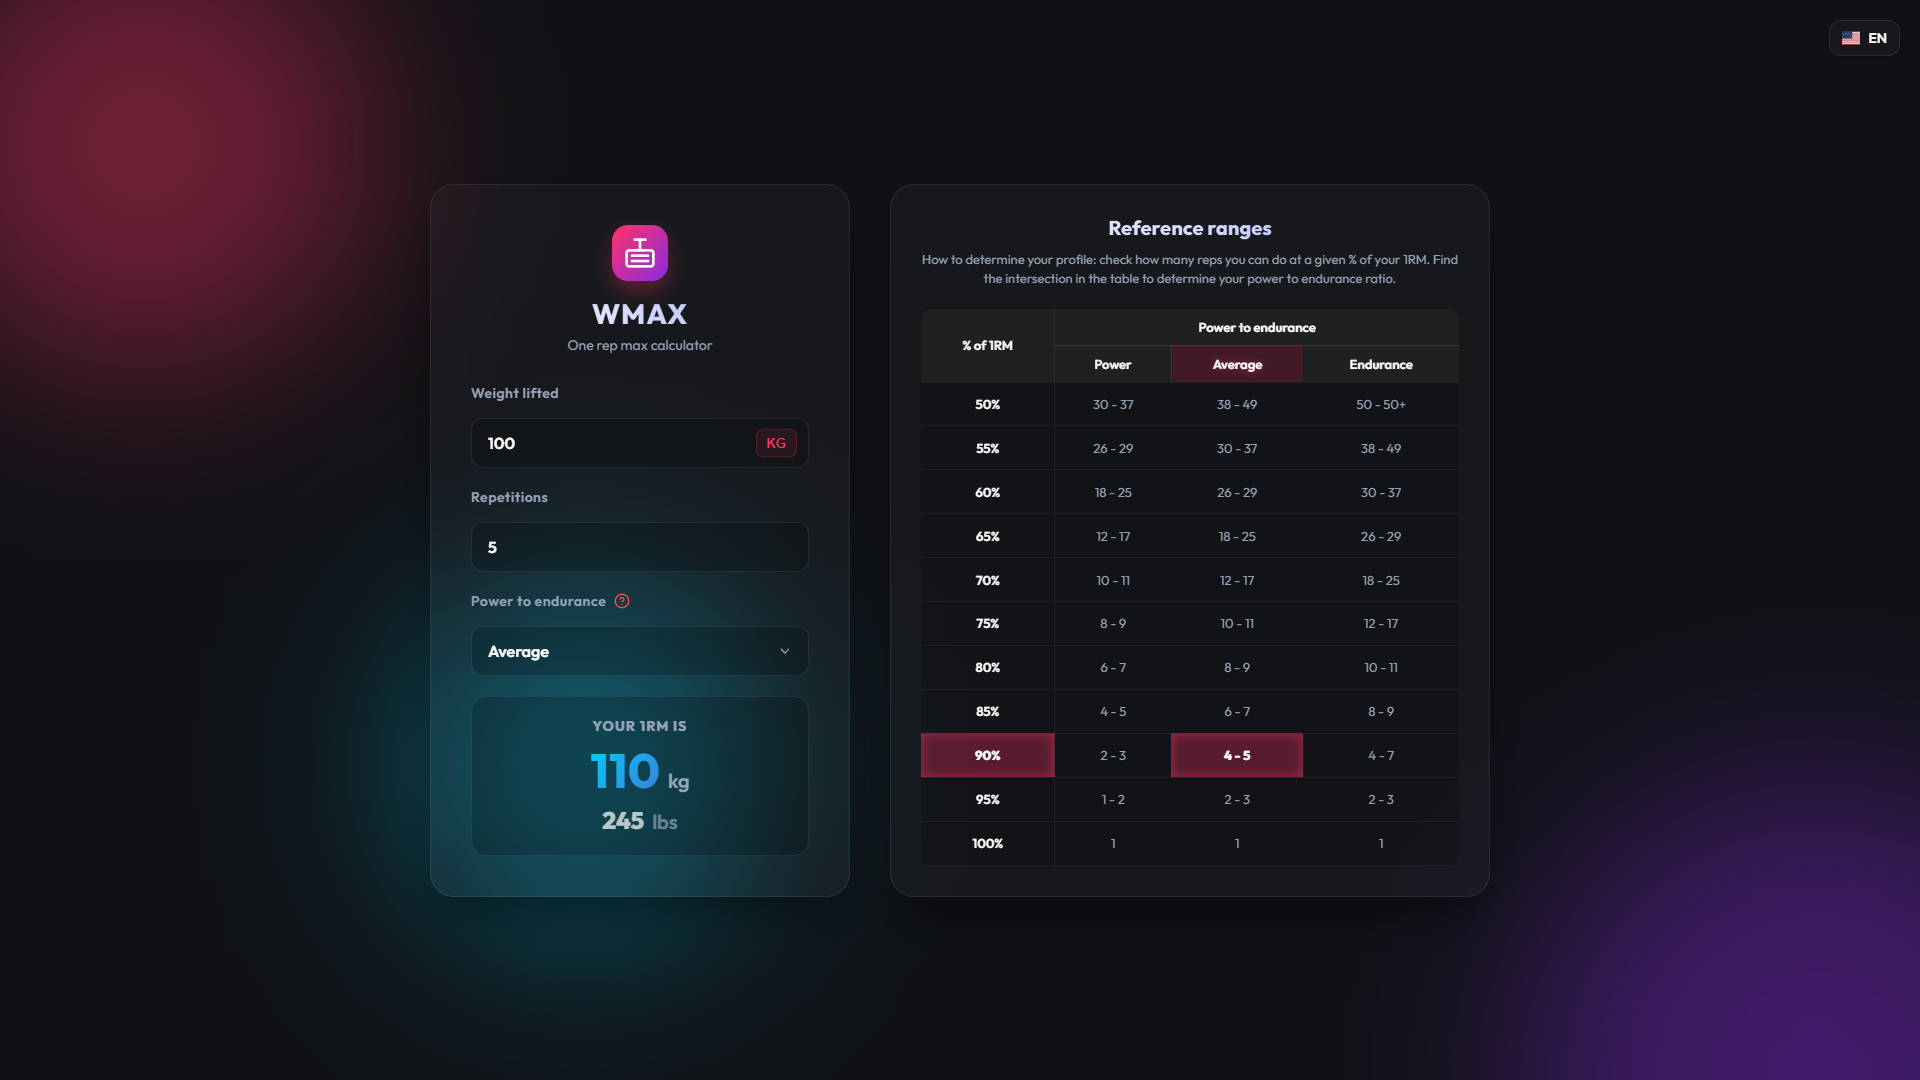
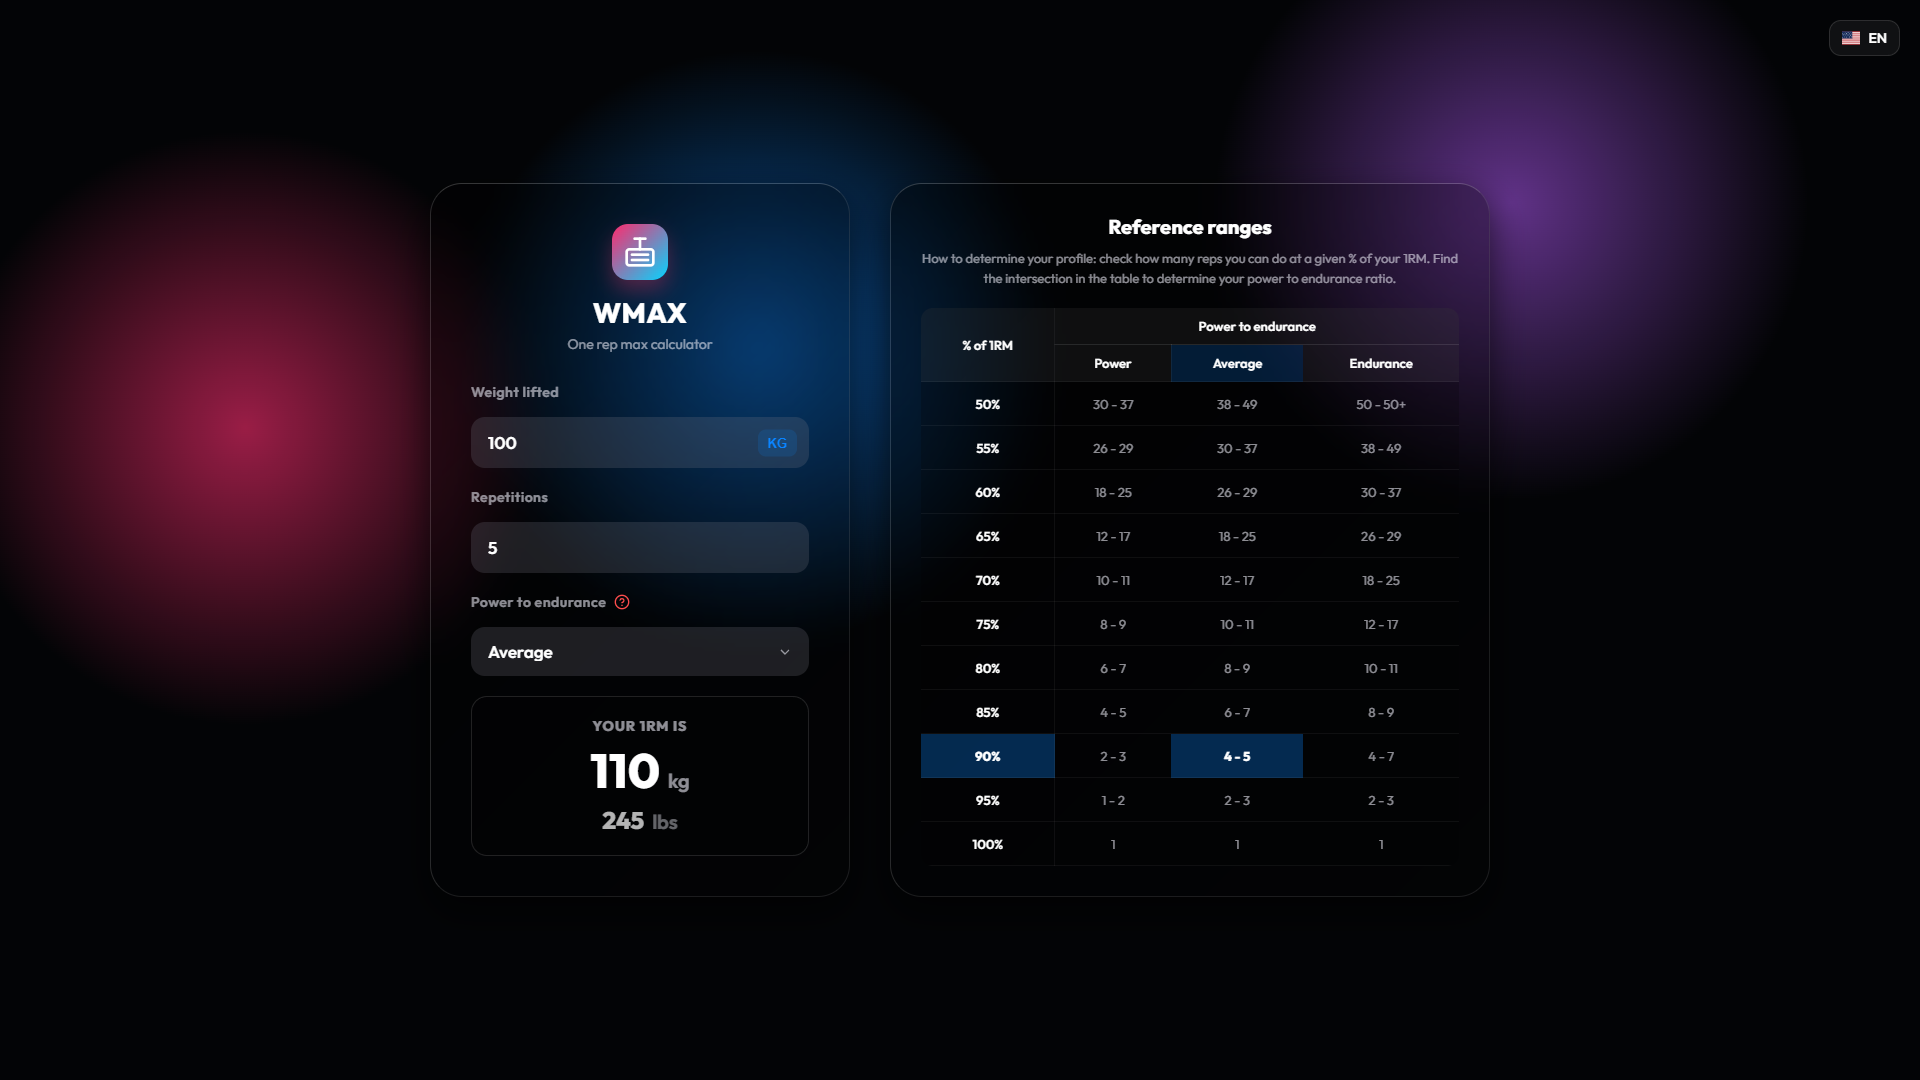
feat(ui): redesign to dark mode with physics background and fix WSL tray
- implement 2D physics engine for background blobs

- redesign UI to use darker glassmorphism

- fix WSL detection to avoid pystray crashes on Linux

- handle KeyboardInterrupt gracefully during Uvicorn shutdown

- update documentation assets

diff --git a/wmax/static/style.css b/wmax/static/style.css
@@ -1,16 +1,16 @@
 :root {
-    --bg-dark: #0f1115;
-    --bg-glass: rgba(255, 255, 255, 0.03);
-    --border-glass: rgba(255, 255, 255, 0.08);
-    --accent: #ff3366;
-    --accent-hover: #ff4d79;
+    --bg-dark: #000000;
+    --bg-glass: rgba(255, 255, 255, 0.05);
+    --border-glass: rgba(255, 255, 255, 0.12);
+    --accent: #0A84FF;
+    --accent-hover: #409CFF;
     --text-primary: #ffffff;
-    --text-secondary: #94a3b8;
-    --error: #ff4d4d;
-    --success: #33cc66;
-    --gradient-1: #ff3366;
-    --gradient-2: #8a2be2;
-    --gradient-3: #00d2ff;
+    --text-secondary: rgba(235, 235, 245, 0.6);
+    --error: #FF453A;
+    --success: #32D74B;
+    --gradient-1: #FF2A6D;
+    --gradient-2: #05D5FF;
+    --gradient-3: #5E5CE6;
 }
 
 * {
@@ -40,46 +40,34 @@ body {
     height: 100vh;
     overflow: hidden;
     z-index: -1;
+    background-color: #030406;
 }
 
 .blob {
     position: absolute;
+    /* Removed filter: blur to prevent artifacts */
     border-radius: 50%;
-    filter: blur(80px);
-    opacity: 0.4;
-    animation: float 20s infinite alternate;
+    transform-origin: center center;
+    mix-blend-mode: screen;
+}
+
+.blob-1, .blob-2, .blob-3 {
+    width: 600px;
+    height: 600px;
+    top: 0;
+    left: 0;
 }
 
 .blob-1 {
-    width: 400px;
-    height: 400px;
-    background: var(--gradient-1);
-    top: -100px;
-    left: -100px;
-    animation-delay: 0s;
+    background: radial-gradient(circle, rgba(10, 132, 255, 0.6) 0%, transparent 70%); /* Голуба */
 }
 
 .blob-2 {
-    width: 500px;
-    height: 500px;
-    background: var(--gradient-2);
-    bottom: -200px;
-    right: -100px;
-    animation-delay: -5s;
+    background: radial-gradient(circle, rgba(255, 42, 109, 0.6) 0%, transparent 70%); /* Рожева */
 }
 
 .blob-3 {
-    width: 300px;
-    height: 300px;
-    background: var(--gradient-3);
-    bottom: 20%;
-    left: 20%;
-    animation-delay: -10s;
-}
-
-@keyframes float {
-    0% { transform: translate(0, 0) scale(1); }
-    100% { transform: translate(50px, 50px) scale(1.2); }
+    background: radial-gradient(circle, rgba(157, 78, 221, 0.6) 0%, transparent 70%); /* Фіолетова */
 }
 
 /* Top Controls */
@@ -183,13 +171,15 @@ body {
 
 /* Glassmorphism App Container */
 .app-container, .table-card {
-    background: var(--bg-glass);
-    backdrop-filter: blur(20px);
-    -webkit-backdrop-filter: blur(20px);
-    border: 1px solid var(--border-glass);
-    border-radius: 24px;
+    background: linear-gradient(135deg, rgba(0, 0, 0, 0.4) 0%, rgba(0, 0, 0, 0.1) 100%);
+    backdrop-filter: blur(16px);
+    -webkit-backdrop-filter: blur(16px);
+    border: 1px solid rgba(255, 255, 255, 0.1);
+    border-top: 1px solid rgba(255, 255, 255, 0.2);
+    border-left: 1px solid rgba(255, 255, 255, 0.15);
+    border-radius: 32px;
     padding: 40px;
-    box-shadow: 0 25px 50px -12px rgba(0, 0, 0, 0.5);
+    box-shadow: 0 15px 35px rgba(0, 0, 0, 0.6);
     transition: transform 0.3s ease;
 }
 
@@ -244,11 +234,9 @@ body {
 h1 {
     font-size: 28px;
     font-weight: 800;
-    letter-spacing: 1px;
+    letter-spacing: 0.5px;
     margin-bottom: 5px;
-    background: linear-gradient(to right, #fff, #a5b4fc);
-    -webkit-background-clip: text;
-    -webkit-text-fill-color: transparent;
+    color: var(--text-primary);
 }
 
 p {
@@ -304,12 +292,12 @@ p {
 
 input[type="number"], select:not(.unit-select) {
     width: 100%;
-    background: rgba(0, 0, 0, 0.2);
-    border: 1px solid var(--border-glass);
-    border-radius: 12px;
+    background: rgba(118, 118, 128, 0.24);
+    border: 1px solid transparent;
+    border-radius: 14px;
     padding: 14px 16px;
     color: var(--text-primary);
-    font-size: 16px;
+    font-size: 17px;
     font-family: 'Outfit', sans-serif;
     font-weight: 600;
     outline: none;
@@ -325,8 +313,8 @@ input[type="number"]::-webkit-inner-spin-button {
 
 input[type="number"]:focus, select:not(.unit-select):focus {
     border-color: var(--accent);
-    box-shadow: 0 0 0 3px rgba(255, 51, 102, 0.2);
-    background: rgba(0, 0, 0, 0.3);
+    box-shadow: 0 0 0 3px rgba(10, 132, 255, 0.3);
+    background: rgba(118, 118, 128, 0.35);
 }
 
 .unit, .unit-toggle {
@@ -344,9 +332,9 @@ input[type="number"]:focus, select:not(.unit-select):focus {
 }
 
 .unit-toggle {
-    background: rgba(255, 51, 102, 0.1);
+    background: rgba(10, 132, 255, 0.15);
     color: var(--accent);
-    border: 1px solid rgba(255, 51, 102, 0.2);
+    border: none;
     border-radius: 8px;
     padding: 6px 10px;
     font-size: 13px;
@@ -358,7 +346,7 @@ input[type="number"]:focus, select:not(.unit-select):focus {
 }
 
 .unit-toggle:hover {
-    background: rgba(255, 51, 102, 0.25);
+    background: rgba(10, 132, 255, 0.25);
     transform: translateY(-50%) scale(1.05);
 }
 
@@ -383,20 +371,22 @@ select option {
 }
 
 .btn-primary {
-    background: linear-gradient(135deg, var(--gradient-1), var(--gradient-2));
+    background: var(--accent);
     color: white;
     border: none;
-    border-radius: 12px;
+    border-radius: 14px;
     padding: 16px;
-    font-size: 16px;
-    font-weight: 800;
+    font-size: 17px;
+    font-weight: 600;
     font-family: inherit;
     cursor: pointer;
     margin-top: 10px;
-    transition: all 0.3s ease;
-    box-shadow: 0 10px 20px rgba(255, 51, 102, 0.3);
-    position: relative;
-    overflow: hidden;
+    transition: all 0.2s ease;
+}
+
+.btn-primary:hover {
+    background: var(--accent-hover);
+    transform: scale(0.98);
 }
 
 .calc-form {
@@ -445,9 +435,7 @@ select option {
 #max-result {
     font-size: 48px;
     font-weight: 800;
-    background: linear-gradient(135deg, #00d2ff, #3a7bd5);
-    -webkit-background-clip: text;
-    -webkit-text-fill-color: transparent;
+    color: var(--text-primary);
 }
 
 .result-unit {
@@ -500,9 +488,7 @@ select option {
     font-weight: 800;
     margin-bottom: 10px;
     text-align: center;
-    background: linear-gradient(to right, #fff, #a5b4fc);
-    -webkit-background-clip: text;
-    -webkit-text-fill-color: transparent;
+    color: var(--text-primary);
 }
 
 .table-help {
@@ -579,17 +565,17 @@ select option {
 
 /* Highlights */
 .highlight-header {
-    background: rgba(255, 51, 102, 0.2) !important;
+    background: rgba(10, 132, 255, 0.2) !important;
     color: #fff !important;
-    text-shadow: 0 0 8px rgba(255, 51, 102, 0.5);
 }
 
 .highlight-cell {
-    background: rgba(255, 51, 102, 0.3) !important;
+    background: rgba(10, 132, 255, 0.3) !important;
     color: #fff !important;
     font-weight: 800 !important;
-    box-shadow: inset 0 0 10px rgba(255, 51, 102, 0.5);
 }
+
+
 
 /* Responsive Design */
 @media screen and (max-width: 900px) {

diff --git a/wmax/static/script.js b/wmax/static/script.js
@@ -322,3 +322,79 @@ document.addEventListener("DOMContentLoaded", () => {
     initLanguage();
     performCalculation();
 });
+
+// --- Blob Physics Background ---
+document.addEventListener('DOMContentLoaded', () => {
+    const w = window.innerWidth;
+    const h = window.innerHeight;
+    const r = 300;
+    
+    // Spawn somewhat randomly across the screen, offset by radius so they can appear partially offscreen safely
+    const rx = () => (Math.random() * w) - (r * 0.5);
+    const ry = () => (Math.random() * h) - (r * 0.5);
+
+    const blobs = [
+        { el: document.querySelector('.blob-1'), x: rx(), y: ry(), vx: 0.2, vy: 0.15, radius: r },
+        { el: document.querySelector('.blob-2'), x: rx(), y: ry(), vx: -0.15, vy: 0.2, radius: r },
+        { el: document.querySelector('.blob-3'), x: rx(), y: ry(), vx: -0.2, vy: -0.15, radius: r }
+    ];
+
+    function update() {
+        const w = window.innerWidth;
+        const h = window.innerHeight;
+
+        for (let i = 0; i < blobs.length; i++) {
+            let b = blobs[i];
+            b.x += b.vx;
+            b.y += b.vy;
+
+            // Bounce off walls 
+            if (b.x < -b.radius * 0.5) { b.x = -b.radius * 0.5; b.vx *= -1; }
+            if (b.x > w - b.radius * 1.5) { b.x = w - b.radius * 1.5; b.vx *= -1; }
+            if (b.y < -b.radius * 0.5) { b.y = -b.radius * 0.5; b.vy *= -1; }
+            if (b.y > h - b.radius * 1.5) { b.y = h - b.radius * 1.5; b.vy *= -1; }
+
+            if(b.el) b.el.style.transform = `translate(${b.x}px, ${b.y}px)`;
+        }
+
+        // Check collisions between blobs
+        for (let i = 0; i < blobs.length; i++) {
+            for (let j = i + 1; j < blobs.length; j++) {
+                let b1 = blobs[i];
+                let b2 = blobs[j];
+                
+                let cx1 = b1.x + b1.radius;
+                let cy1 = b1.y + b1.radius;
+                let cx2 = b2.x + b2.radius;
+                let cy2 = b2.y + b2.radius;
+
+                let dx = cx2 - cx1;
+                let dy = cy2 - cy1;
+                let dist = Math.sqrt(dx * dx + dy * dy);
+                
+                // Use a slightly smaller collision radius so they overlap beautifully before bouncing
+                let minDist = (b1.radius + b2.radius) * 0.6; 
+                
+                if (dist < minDist && dist > 0) {
+                    let nx = dx / dist;
+                    let ny = dy / dist;
+                    let dvx = b1.vx - b2.vx;
+                    let dvy = b1.vy - b2.vy;
+                    let velAlongNormal = dvx * nx + dvy * ny;
+                    
+                    if (velAlongNormal > 0) {
+                        let impulse = 2 * velAlongNormal / 2; 
+                        b1.vx -= impulse * nx;
+                        b1.vy -= impulse * ny;
+                        b2.vx += impulse * nx;
+                        b2.vy += impulse * ny;
+                    }
+                }
+            }
+        }
+        requestAnimationFrame(update);
+    }
+    
+    // Slight delay to ensure DOM is fully laid out
+    setTimeout(update, 100);
+});

diff --git a/main.py b/main.py
@@ -1,9 +1,11 @@
 import argparse
 import os
+import signal
 import sys
 import threading
 import time
 import webbrowser
+from contextlib import suppress
 
 if sys.stdout is None:
     sys.stdout = open(os.devnull, "w")  # noqa: SIM115
@@ -30,6 +32,10 @@ def can_use_tray(server_mode: bool) -> bool:
     if sys.platform.startswith("linux"):
         if not os.environ.get("DISPLAY") and not os.environ.get("WAYLAND_DISPLAY"):
             return False
+        with suppress(Exception), open("/proc/version") as f:
+            content = f.read().lower()
+            if "microsoft" in content or "wsl" in content:
+                return False
     return True
 
 
@@ -77,7 +83,12 @@ def main() -> None:
             pystray.MenuItem("Exit", exit_app),
         )
         icon = pystray.Icon("wmax", image, "WMAX Server", menu)
-        icon.run()
+        signal.signal(signal.SIGINT, lambda _s, _f: os._exit(0))
+        try:
+            icon.run()
+        except Exception as e:
+            logger.error("Tray icon failed: {}", e)
+            os._exit(1)
     else:
         # In server mode or headless linux, we just run the server and DO NOT open a browser
         uvicorn_config = uvicorn.Config(app, host=args.host, port=args.port, log_config=None, access_log=False)
